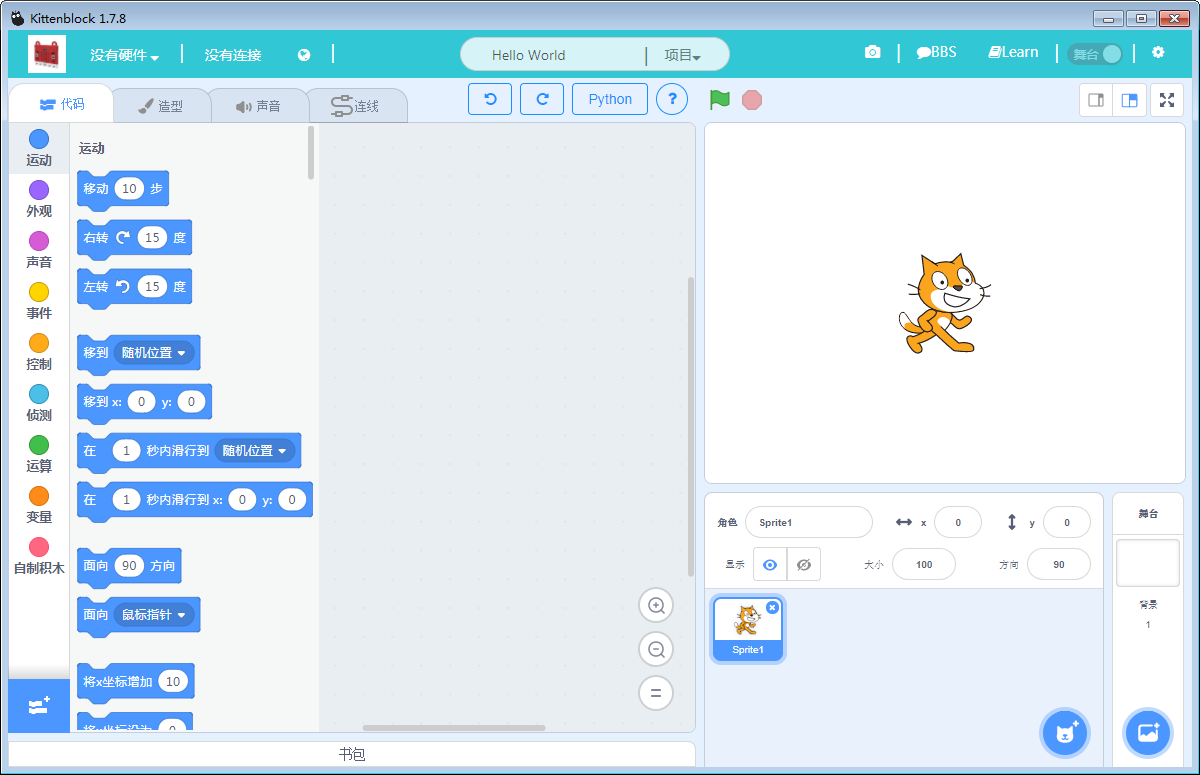
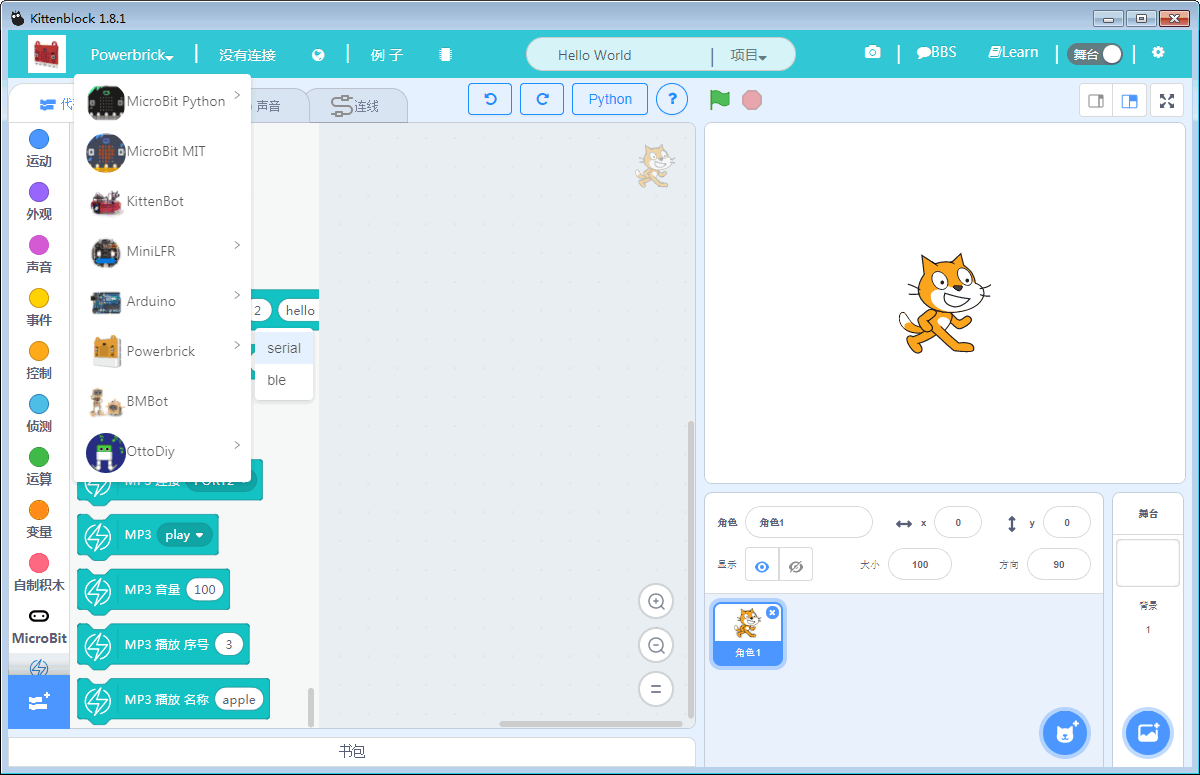
pw在kb中的教程

diff --git a/website/kittenblock_releasenote.md b/website/kittenblock_releasenote.md
@@ -2,20 +2,29 @@
 
 ![](./images/kittenblock_main.png)
 
-## 最新版本V1.80 下载地址
+## 最新版本V1.81 下载地址
 
-windows： [http://cdn.kittenbot.cn/win/Kittenblock Setup 1.8.0.exe](http://cdn.kittenbot.cn/win/Kittenblock%20Setup%201.8.0.exe)
-
-mac: [http://cdn.kittenbot.cn/mac/Kittenblock-1.8.0.dmg](http://cdn.kittenbot.cn/mac/Kittenblock-1.8.0.dmg)
+windows： [http://cdn.kittenbot.cn/win/Kittenblock Setup 1.8.1.exe](http://cdn.kittenbot.cn/win/Kittenblock%20Setup%201.8.1.exe)
 
 历史版本和改进意见请前往我们的bbs发布帖子，谢谢 ~
 
 http://kittenbot.cn/bbs/forum.php?mod=viewthread&tid=115
 
+# V1.81 更新笔记
+- TensorFlow插件进行稳定更新
+- Microbit底层代码重构，使在线交互更加稳定
+- Microbit固件可分为Serial与Ble，众所周知，Microbit的蓝牙与2.4G无法同时使用，所以如果你要使用2.4G，请选择Serial
+
+----------
+
 # V1.80 更新笔记
 - TensorFlow插件稳定版本，导入TensorFlow插件后可以按`~`打开控制台
 - 扩展插件本地化，大家可以更加方便地添加自己的硬件和扩展插件，所有硬件插件代码都放在我们的github仓库
 - Micropython在线固件重构，现在支持蓝牙模式，并且小程序也是使用这个固件（大家可以在微信小程序中搜索microbit）
+
+windows： [http://cdn.kittenbot.cn/win/Kittenblock Setup 1.8.0.exe](http://cdn.kittenbot.cn/win/Kittenblock%20Setup%201.8.0.exe)
+
+mac: [http://cdn.kittenbot.cn/mac/Kittenblock-1.8.0.dmg](http://cdn.kittenbot.cn/mac/Kittenblock-1.8.0.dmg)
 
 # V1.78 Kittenblock迭代说明   
 

diff --git a/powerbrick_KB/index.rst b/powerbrick_KB/index.rst
@@ -1,0 +1,12 @@
+能量魔块Powerbrick在Kittenblock中教程
+====================
+
+这部分是能量魔块Powerbrick在Kittenblock中教程
+
+
+.. toctree::
+    :maxdepth: 2
+    :numbered: 2
+
+    00Kittenblock安装.md
+
